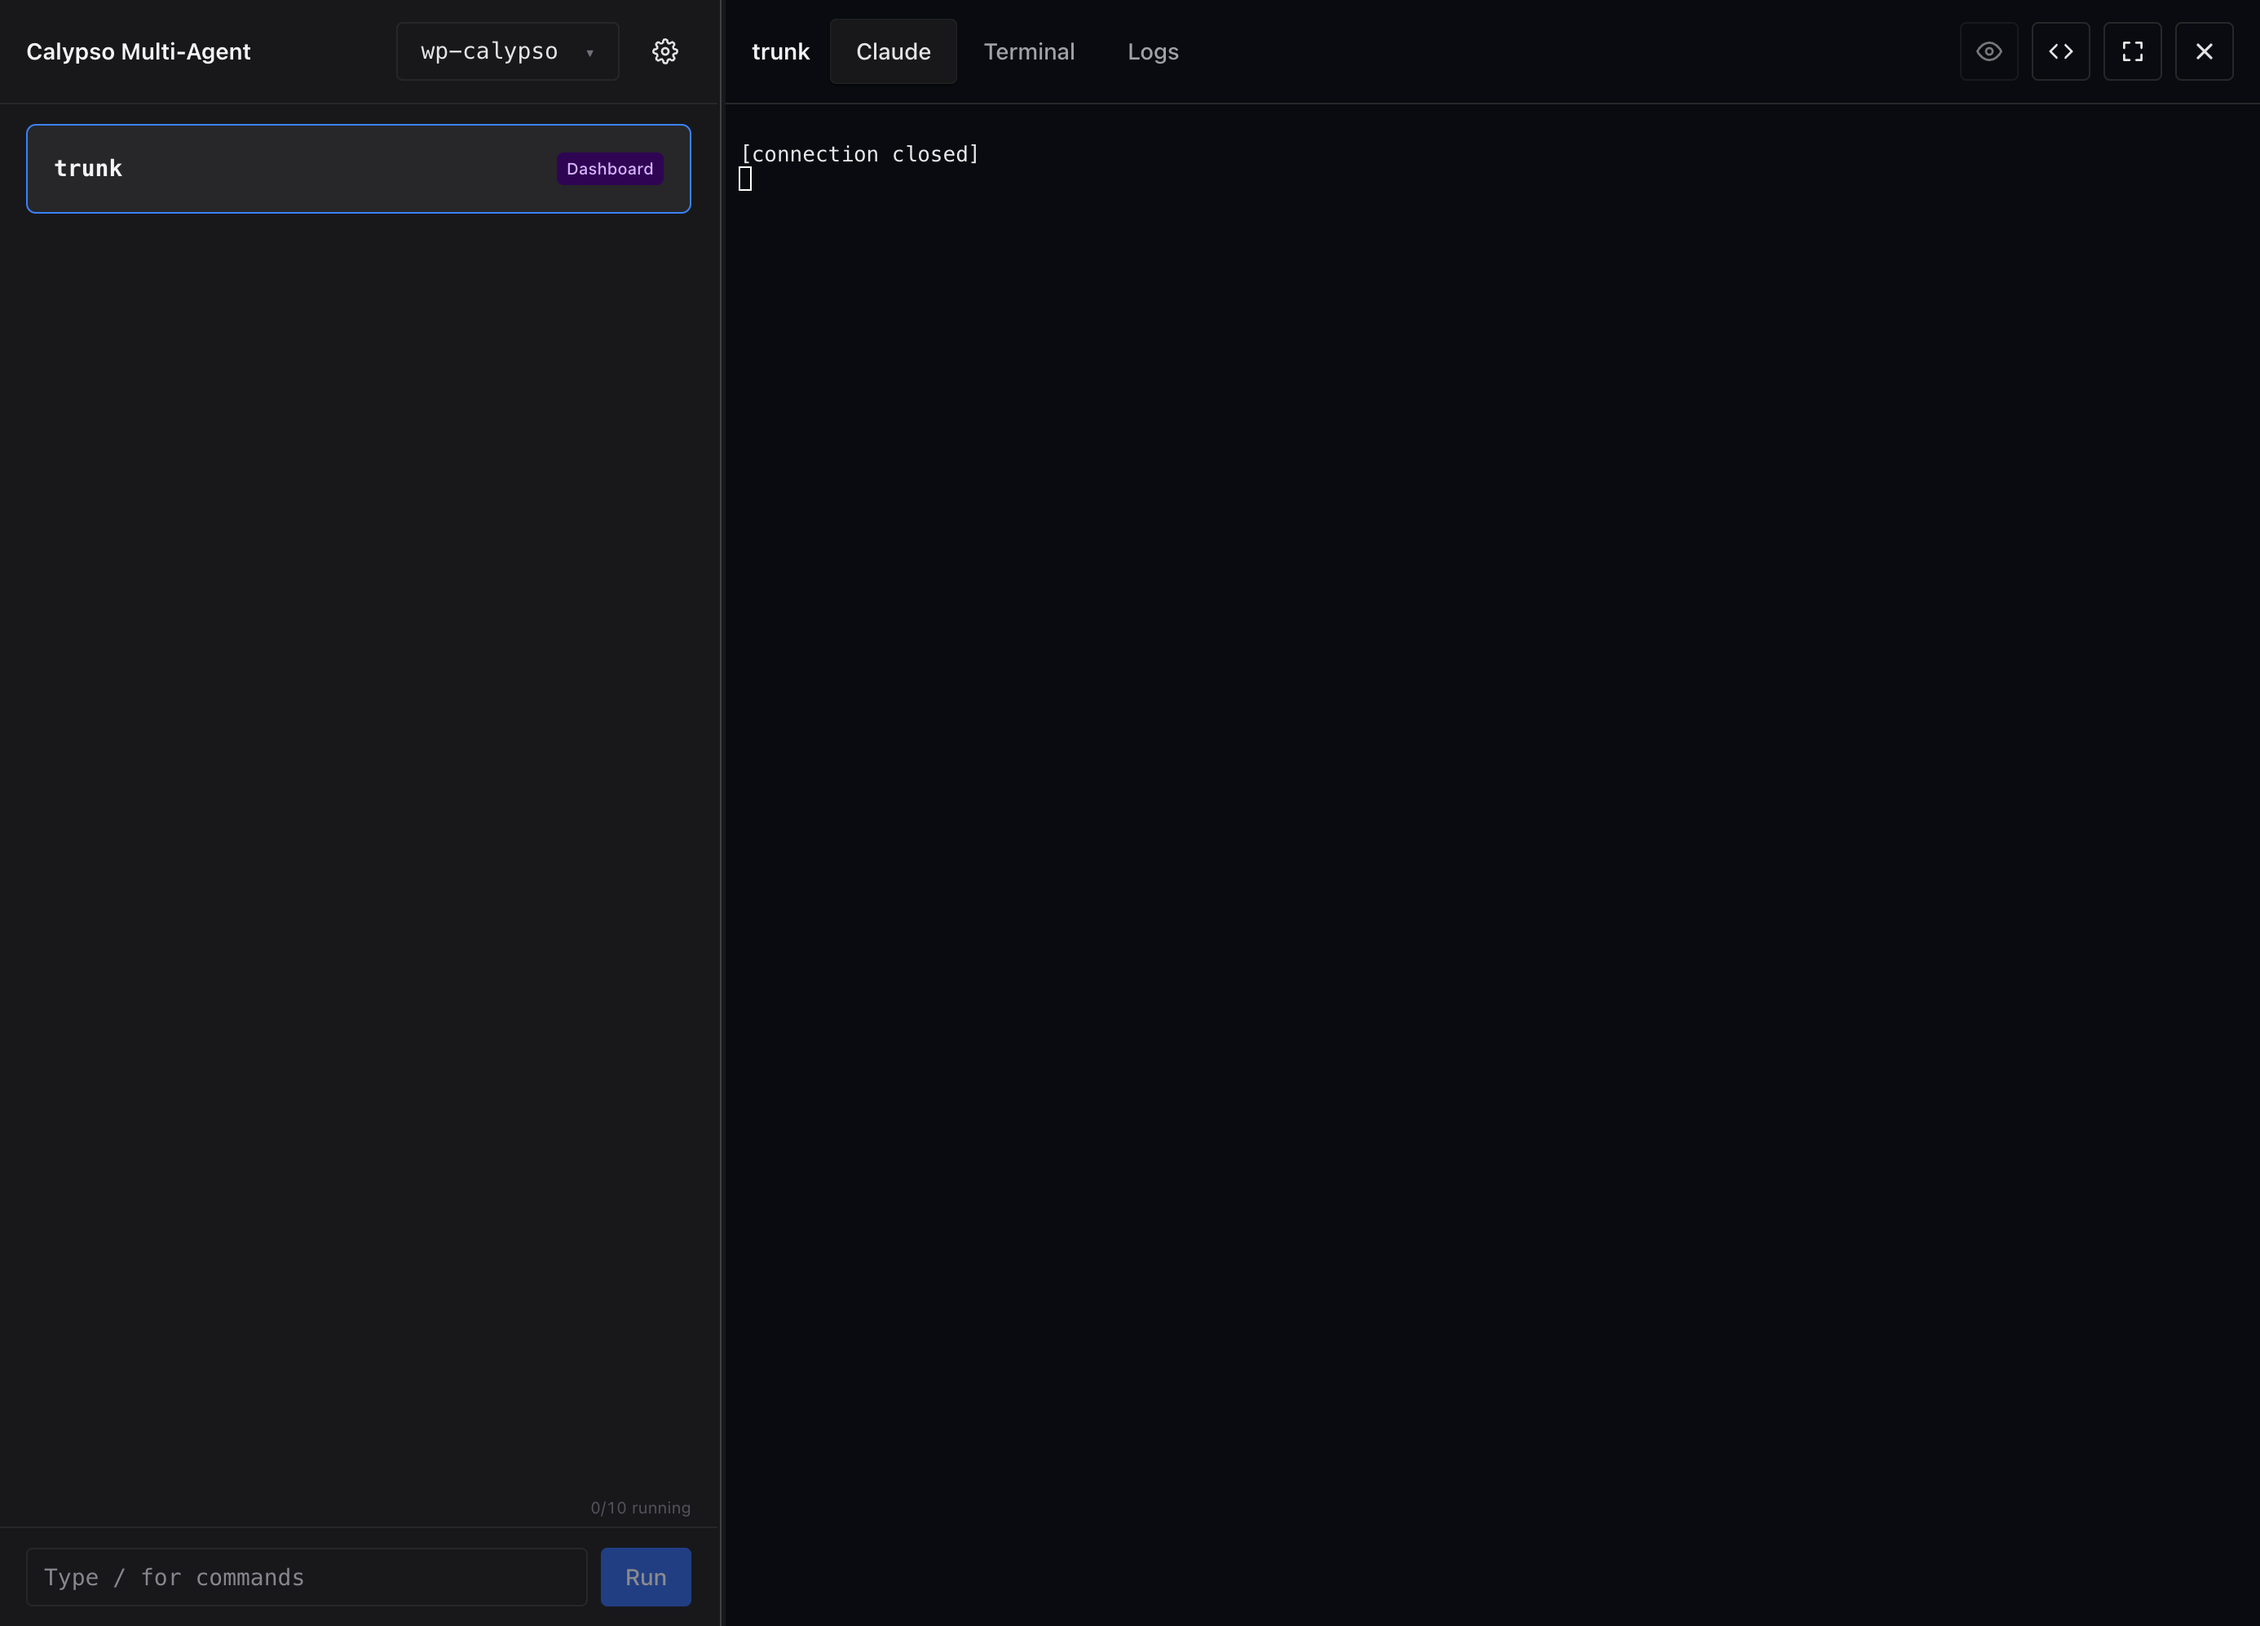
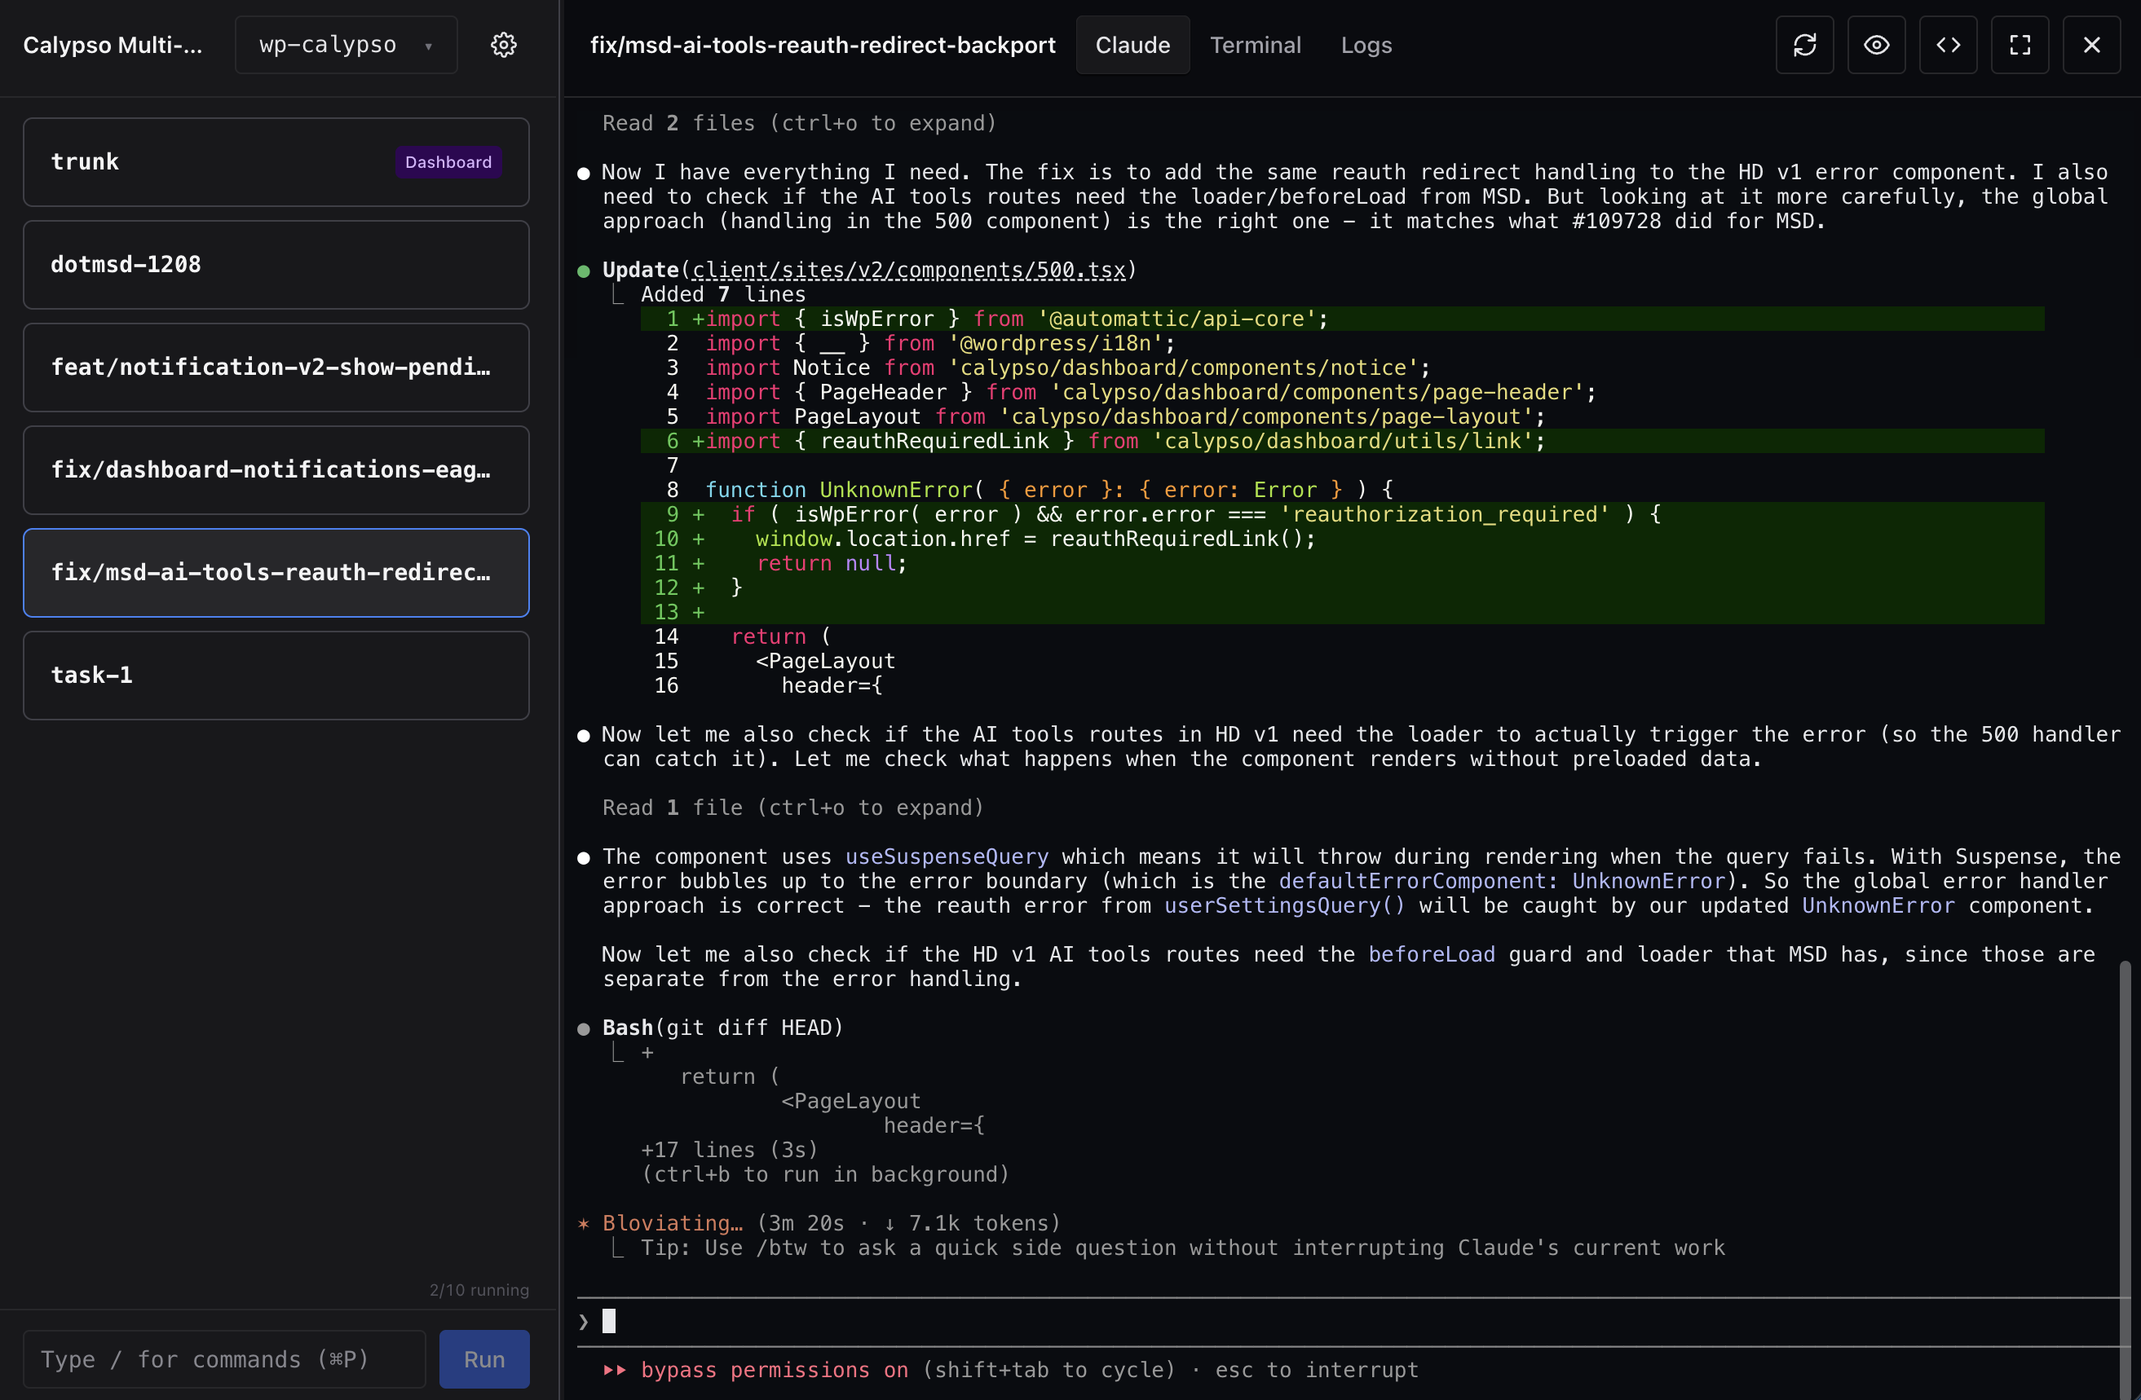
Update docs screenshot

diff --git a/index.html b/index.html
@@ -38,7 +38,7 @@
         <a href="#" class="btn-primary"><svg width="14" height="17" viewBox="0 0 814 1000" fill="currentColor" xmlns="http://www.w3.org/2000/svg"><path d="M788.1 340.9c-5.8 4.5-108.2 62.2-108.2 190.5 0 148.4 130.3 200.9 134.2 202.2-.6 3.2-20.7 71.9-68.7 141.9-42.8 61.6-87.5 123.1-155.5 123.1s-85.5-39.5-164-39.5c-76.5 0-103.7 40.8-165.9 40.8s-105.6-57.8-155.5-127.4c-58.3-81.3-105.9-207.5-105.9-328.3 0-193 125.3-295.3 248.6-295.3 65.5 0 120.1 43.1 161.2 43.1 39.2 0 100.4-45.7 174.6-45.7 28.2 0 129.6 2.6 196.4 99.8zM554.1 159.4c31.1-36.9 53.1-88.1 53.1-139.3 0-7.1-.6-14.3-1.9-20.1-50.6 1.9-110.8 33.7-147.1 75.8-28.5 32.4-55.1 83.6-55.1 135.5 0 7.8.7 15.6 1.3 18.1 2.6.5 6.4.6 10.2.6 45.8 0 103.6-30.4 139.5-70.6z"/></svg> Download for Mac</a>
         <a href="https://github.com/arthur791004/calypso-multi-agent" target="_blank" class="btn-secondary">View on GitHub</a>
       </div>
-      <div class="hero-image"><img src="screenshot.png" alt="Shipyard app screenshot"></div>
+      <div class="hero-image"><img src="screenshot.png?v=2" alt="Shipyard app screenshot"></div>
     </div>
     <div class="hero-fade"></div>
   </div>
